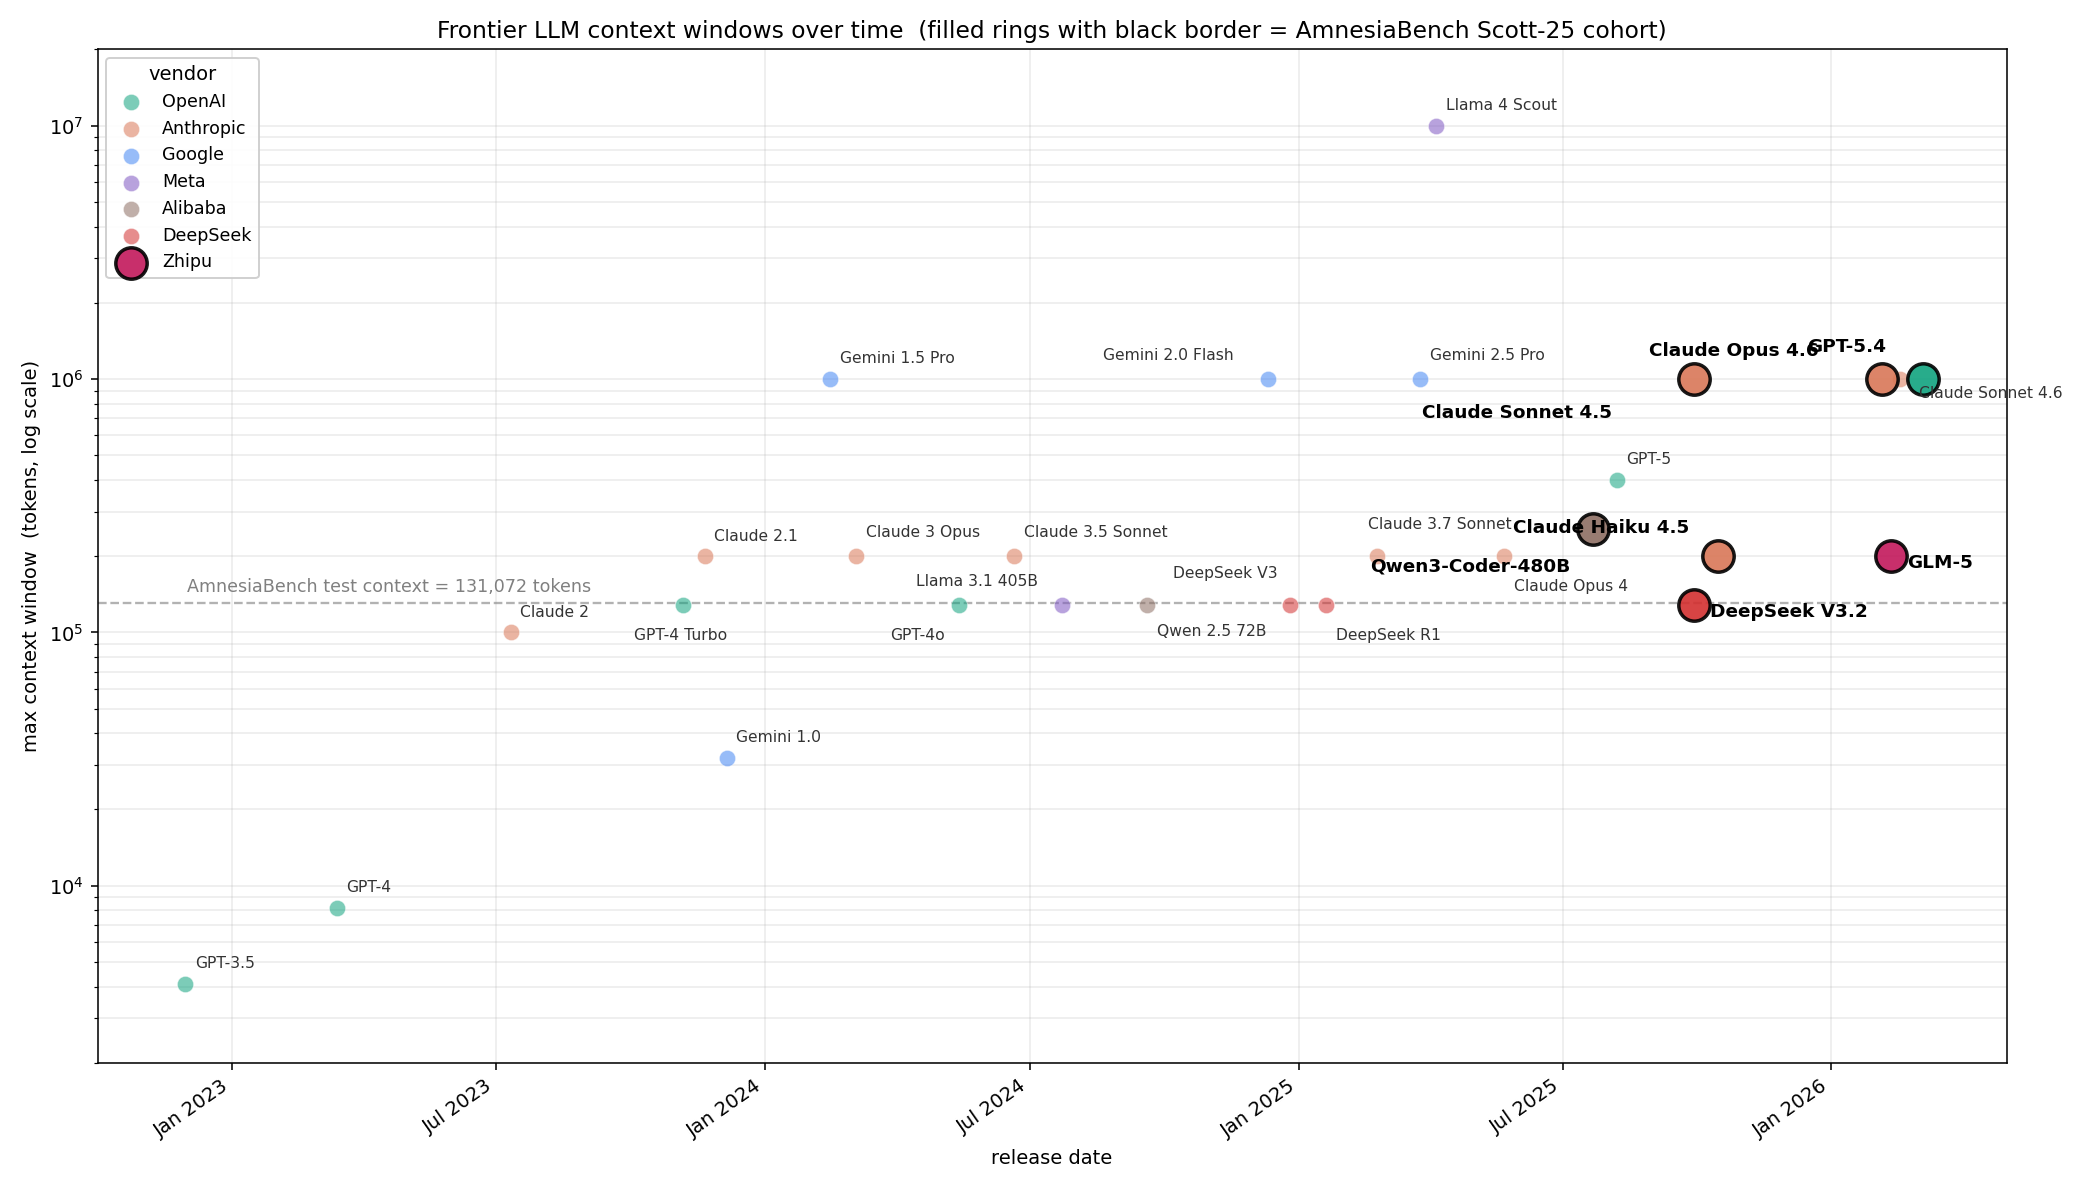
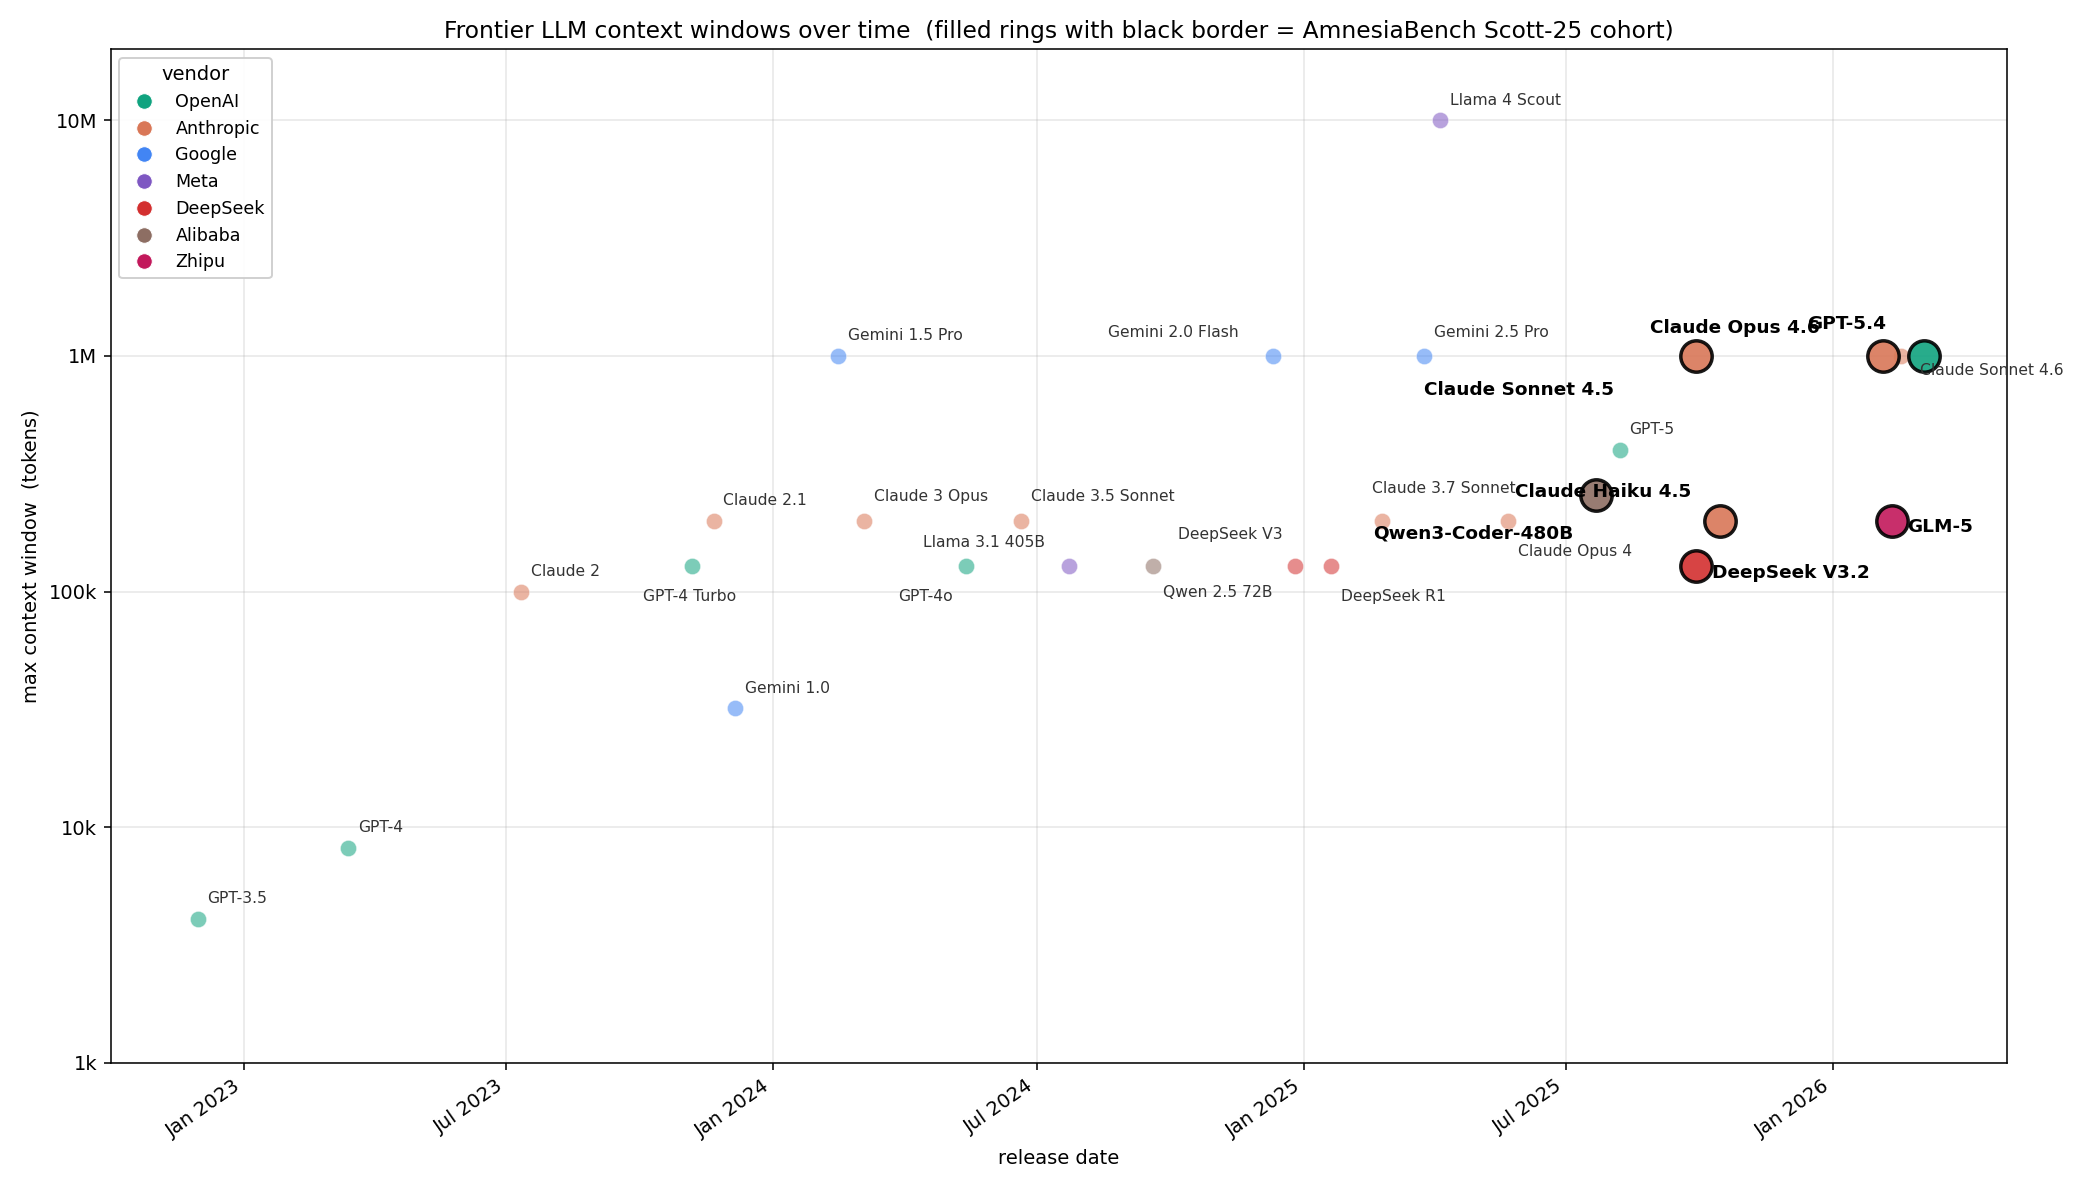
Clean up context-window timeline
- Y-axis: base-10 ticks only (1k/10k/100k/1M/10M), no minor ticks
- Drop 131k AmnesiaBench reference line
- Uniform legend marker size so Zhipu doesn't look bigger

diff --git a/plot_context_window_timeline.py b/plot_context_window_timeline.py
@@ -14,6 +14,8 @@ from pathlib import Path
 
 import matplotlib.dates as mdates
 import matplotlib.pyplot as plt
+from matplotlib.lines import Line2D
+from matplotlib.ticker import FuncFormatter
 
 ROOT = Path("/tmp/scott25")
 
@@ -69,50 +71,59 @@ def main():
 
     # Non-cohort: small filled dots, light labels above.
     # Cohort: big ring + thicker outline + bold label below.
-    drawn_legend_families = set()
     for label, d, ctx, fam, is_cohort, offset in MODELS:
         color = FAMILY[fam]
-        legend_label = fam if fam not in drawn_legend_families else None
-        drawn_legend_families.add(fam)
         off = offset if offset is not None else (5, 8)
 
         if is_cohort:
             ax.scatter([d], [ctx], s=260, color=color, alpha=0.9,
-                       edgecolors="black", linewidths=1.8, zorder=6,
-                       label=legend_label)
+                       edgecolors="black", linewidths=1.8, zorder=6)
             ax.annotate(label, (d, ctx),
                         xytext=off, textcoords="offset points",
                         fontsize=9.5, fontweight="bold", color="black", zorder=8)
         else:
             ax.scatter([d], [ctx], s=70, color=color, alpha=0.55,
-                       edgecolors="white", linewidths=0.4, zorder=4,
-                       label=legend_label)
+                       edgecolors="white", linewidths=0.4, zorder=4)
             ax.annotate(label, (d, ctx),
                         xytext=off, textcoords="offset points",
                         fontsize=8, color="#333", zorder=7)
 
-    # Horizontal reference at 131k — the context the AmnesiaBench harness
-    # exercised, regardless of each model's maximum capability.
-    ax.axhline(131_072, color="gray", linestyle="--", linewidth=1.2, alpha=0.6)
-    ax.text(date(2022, 12, 1), 131_072 * 1.1,
-            "AmnesiaBench test context = 131,072 tokens",
-            fontsize=9, color="gray")
-
     ax.set_yscale("log")
     ax.set_ylim(2_000, 20_000_000)
     ax.set_xlim(date(2022, 10, 1), date(2026, 5, 1))
+
+    # Y-axis: only clean base-10 ticks — 1k, 10k, 100k, 1M, 10M.
+    y_ticks = [1_000, 10_000, 100_000, 1_000_000, 10_000_000]
+    def _fmt(v, _pos):
+        if v >= 1_000_000:
+            return f"{v/1_000_000:g}M"
+        if v >= 1_000:
+            return f"{v/1_000:g}k"
+        return str(int(v))
+    ax.set_yticks(y_ticks)
+    ax.yaxis.set_major_formatter(FuncFormatter(_fmt))
+    ax.yaxis.set_minor_locator(plt.NullLocator())  # no minor ticks
 
     ax.xaxis.set_major_locator(mdates.MonthLocator(bymonth=[1, 7]))
     ax.xaxis.set_major_formatter(mdates.DateFormatter("%b %Y"))
     plt.setp(ax.get_xticklabels(), rotation=35, ha="right")
 
     ax.set_xlabel("release date")
-    ax.set_ylabel("max context window  (tokens, log scale)")
+    ax.set_ylabel("max context window  (tokens)")
     ax.set_title("Frontier LLM context windows over time  "
                  "(filled rings with black border = AmnesiaBench Scott-25 cohort)")
-    ax.grid(True, which="both", alpha=0.25)
-    ax.legend(loc="upper left", fontsize=9, framealpha=0.92,
-              title="vendor", title_fontsize=10)
+    ax.grid(True, which="major", alpha=0.3)
+    ax.grid(False, which="minor")
+
+    # Custom legend with uniform marker size so every vendor gets the same
+    # swatch — otherwise the first-appearing dot determines the size, which
+    # made Zhipu look "bigger" just because GLM-5 is a cohort model.
+    handles = [Line2D([0], [0], marker="o", linestyle="",
+                      markersize=8, markerfacecolor=FAMILY[f],
+                      markeredgecolor="white", markeredgewidth=0.5,
+                      label=f) for f in FAMILY]
+    ax.legend(handles=handles, loc="upper left", fontsize=9,
+              framealpha=0.92, title="vendor", title_fontsize=10)
 
     out = ROOT / "context_window_timeline.png"
     fig.tight_layout()
